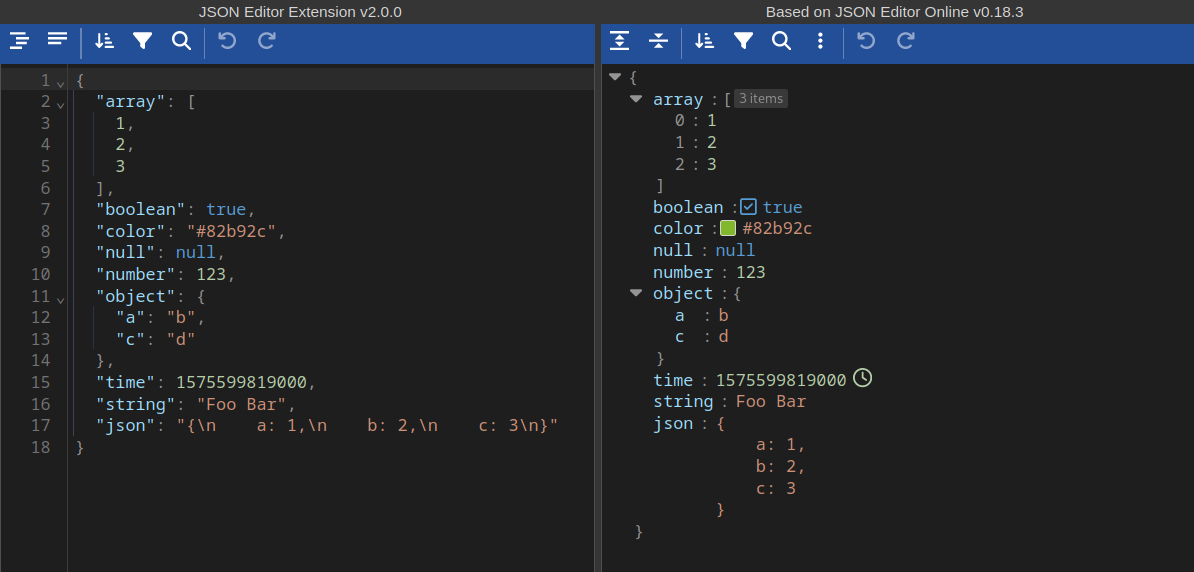
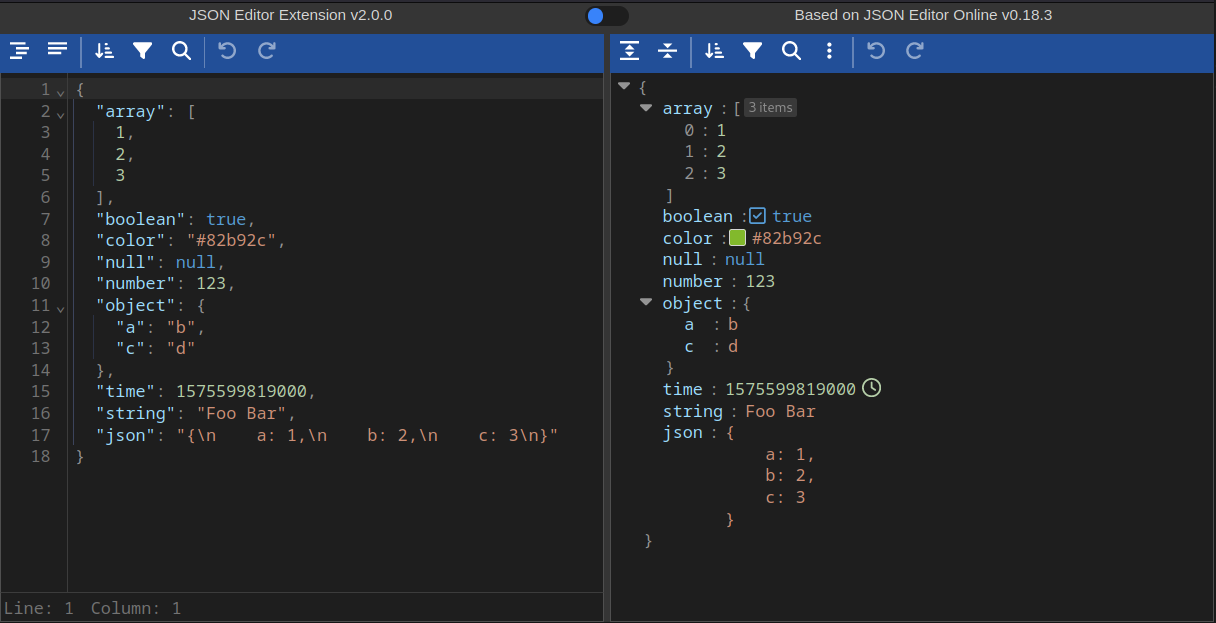
Add dark/light mode with toggle + local storage memory

diff --git a/main.css b/main.css
@@ -15,7 +15,7 @@ html, body {
 }
 .header .content {
     display: grid;
-    grid-template-columns: 1fr 1fr;
+    grid-template-columns: 10fr 1fr 10fr;
     text-align: center;
 }
 .header .content a {
@@ -44,4 +44,53 @@ html, body {
 .jse-menu > *:nth-child(4)
 {
     display: none;
+}
+
+/* Togle light/dark mode */
+#switch {
+    position: relative;
+    display: none;
+    width: 36px;
+    height: 17px;
+}
+#switch input {
+    display:none;
+    /* margin-left: 50px; */
+}
+.slider {
+    position: absolute;
+    cursor: pointer;
+    top: 0;
+    left: 0;
+    right: 0;
+    bottom: 0;
+    background-color: #1e1e1e;
+    -webkit-transition: .2s;
+    transition: .2s;
+}
+.slider:before {
+    position: absolute;
+    content: "";
+    height: 13px;
+    width: 13px;
+    left: 2px;
+    bottom: 2px;
+    background-color: #3883FA;
+    -webkit-transition: .2s;
+    transition: .2s;
+}
+.slider.round {
+    border-radius: 17px;
+}
+.slider.round:before {
+    border-radius: 50%;
+}
+input:checked + .slider {
+    background-color: #3883FA;
+}
+input:checked + .slider:before {
+    background-color: #fff;
+    -webkit-transform: translateX(19px);
+    -ms-transform: translateX(19px);
+    transform: translateX(19px);
 }

diff --git a/init.js b/init.js
@@ -37,3 +37,36 @@ const editorRight = new JSONEditor({
         },
     },
 })
+
+// Avoid flicker
+document.getElementById('switch').style.display = 'inline-block'
+
+// Get toggle element and add click event
+const $mode = document.getElementById('mode')
+$mode.onclick = (event) => {
+    const mode = event.target.checked ? 'light' : 'dark'
+    toggleMode(mode)
+    localStorage.setItem('mode', mode);
+};
+
+// Handle local storage
+const currentMode = localStorage.getItem('mode') || 'dark'
+if (currentMode === 'dark') {
+    if ($mode.checked) {
+        $mode.checked = false
+        toggleMode(mode)
+    }
+} else {
+    $mode.checked = true
+    toggleMode(mode)
+}
+
+function toggleMode(mode) {
+    if (mode === 'dark') {
+        if (!document.className) {
+            document.body.classList.add('jse-theme-dark')
+        }
+    } else {
+        document.body.classList.remove('jse-theme-dark')
+    }
+}

diff --git a/main.html b/main.html
@@ -8,21 +8,33 @@
 </head>
 
 <body class="jse-theme-dark">
+
     <div class="header">
         <div class="content">
             <span>
                 <a href="https://github.com/fractalf/json-editor-ex" target="_blank">JSON Editor Extension v2.0.0</a>
             </span>
+
+            <span>
+                <label id="switch">
+                    <input id="mode" type="checkbox">
+                    <span class="slider round"></span>
+                </label>
+            </span>
+
             <span>
                 <a href="https://github.com/josdejong/svelte-jsoneditor" target="_blank">Based on JSON Editor Online v0.18.3</a>
             </span>
         </div>
     </div>
+
     <div class="container">
         <div id="left"></div>
         <div id="right"></div>
     </div>
+
     <script type="module" src="init.js"></script>
+
 </body>
 
 </html>
